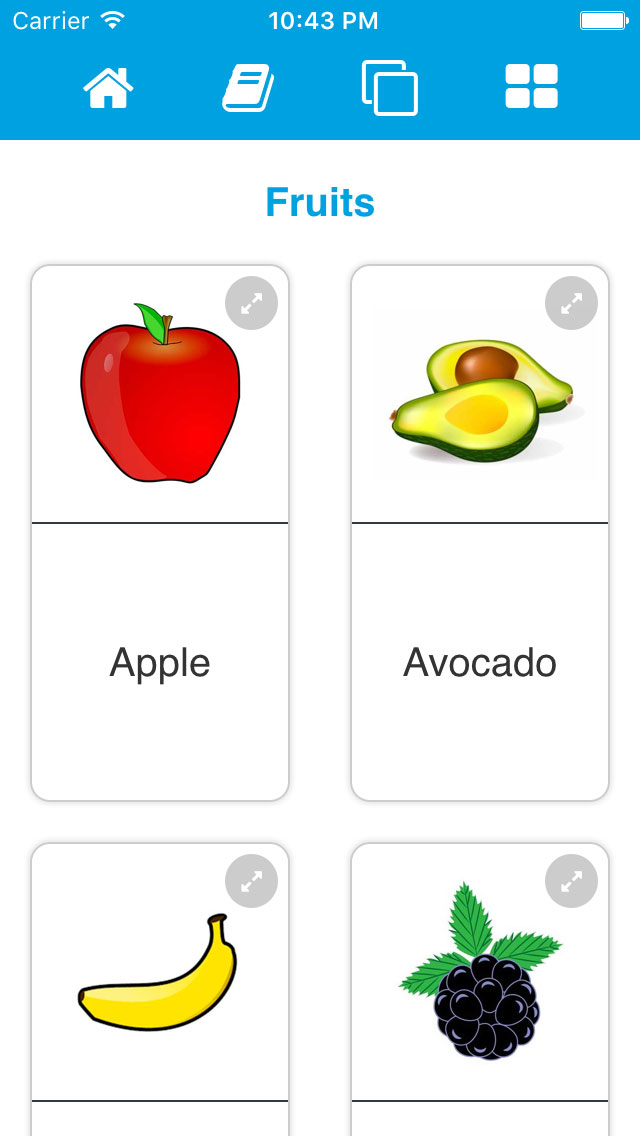
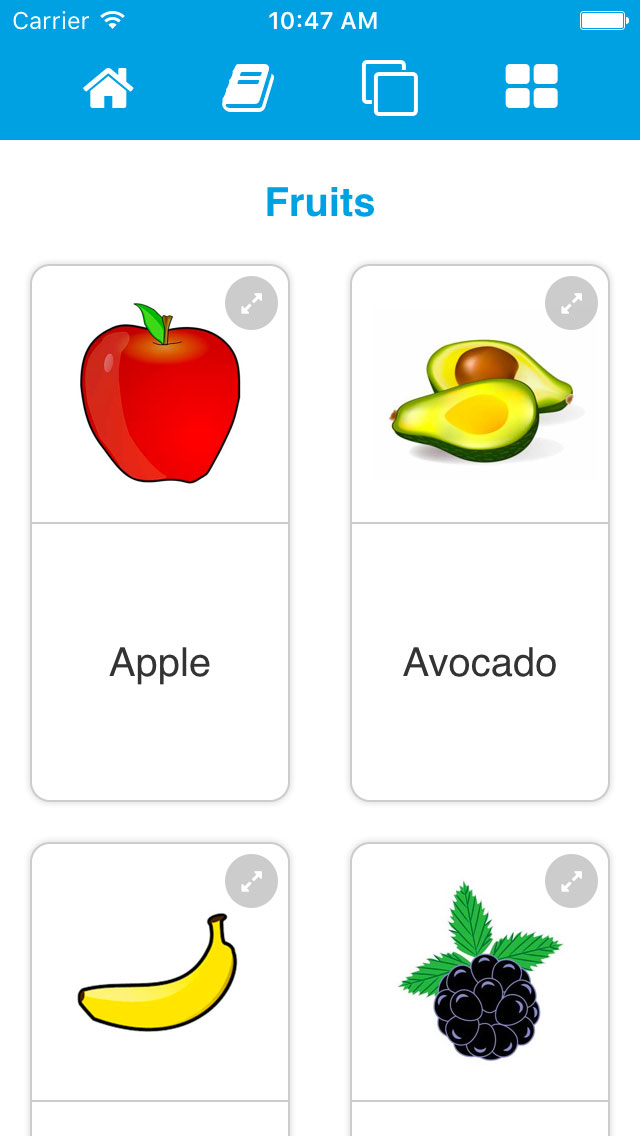
feat: add app url, update pictures, fix picture margins

Changed region(s): [[0.625, 0.3081, 0.8125, 0.4005], [0.5, 0.0, 0.5938, 0.0308], [0.2188, 0.2773, 0.25, 0.3081]]

diff --git a/client/app/views/home/home.html b/client/app/views/home/home.html
@@ -10,7 +10,8 @@
       <p class="description">
         Learn new words with fun !<br>
         Kidkards helps children to learn new words in English. They can explore words by categories, listen to their pronunciations or match with their related pictures.<br><br>
-        Kidkards will be only available soon on Apple iOS Devices.
+        Kidkards is available on Apple iOS Devices.
+        Check it out and Download : <a href="https://itunes.apple.com/us/app/kidkards/id1088182089">Here</a>
       </p>
 
       <h3>Explore the cards</h3>

diff --git a/client/app/assets/scss/views/_homepage.scss b/client/app/assets/scss/views/_homepage.scss
@@ -28,15 +28,15 @@
     border-top: 1px dotted #CCC;
   }
   .picture {
+    margin-bottom: 20px;
     img {
       max-width: 100%;
       border: 1px #CCC solid;
     }
   }
   .contact {
-    margin-top: 30px;
+    margin-top: 10px;
     margin-bottom: 60px;
-
   }
 }
 
